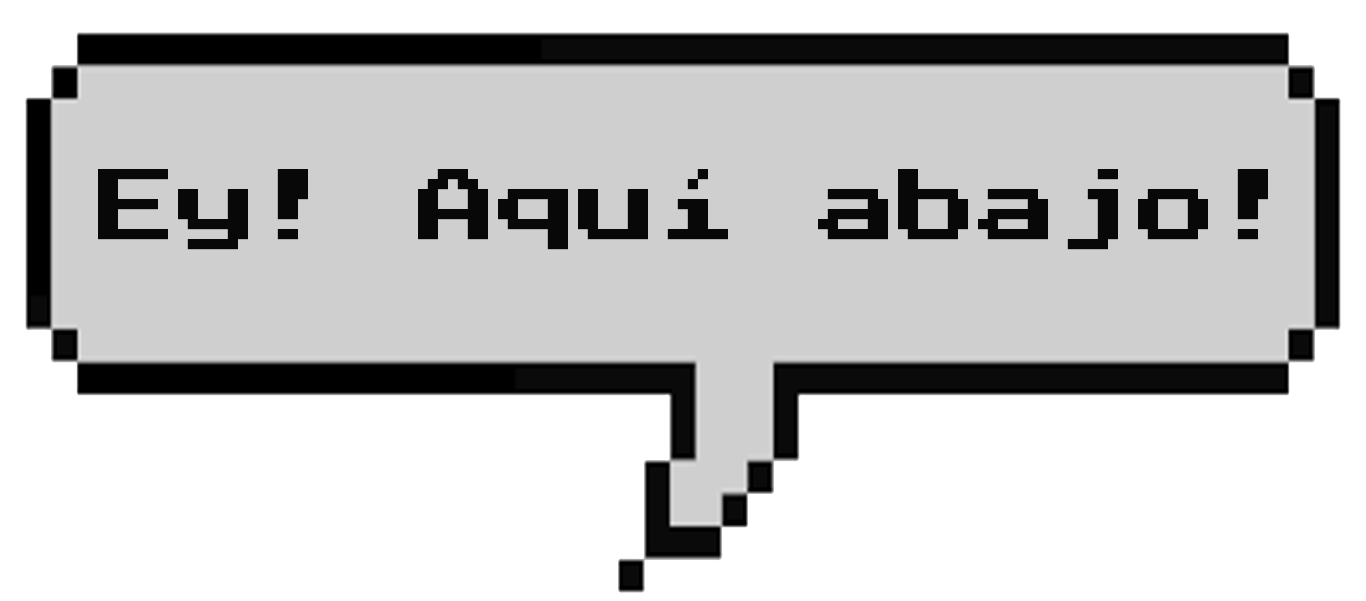
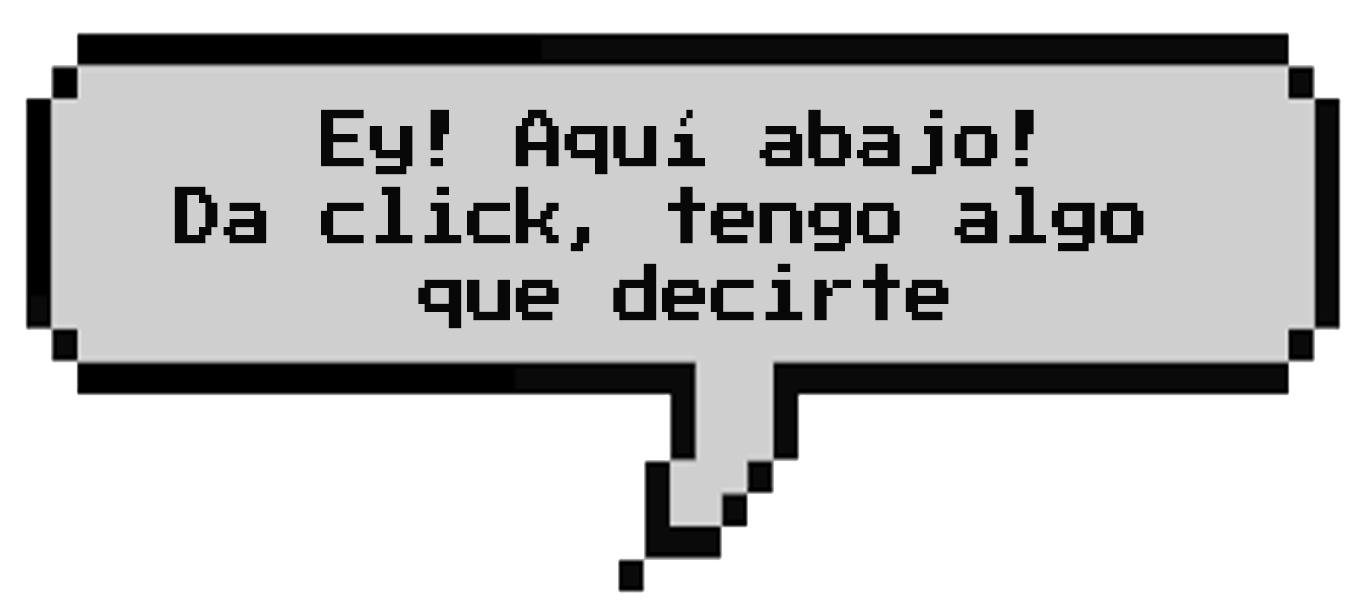
Agregar y corregir consejos de Karin

Changed region(s): [[0.0615, 0.1797, 0.9531, 0.5391]]

diff --git a/src/scenes/Scene_puzzle0.js b/src/scenes/Scene_puzzle0.js
@@ -15,6 +15,8 @@ class Scene_puzzle0 extends Phaser.Scene{
         this.load.image('ayuda2_3','./assets/consejos/dKarin2_3.png');
         this.load.image('ayuda2_4','./assets/consejos/dKarin2_4.png');
         this.load.image('ayuda2_5','./assets/consejos/dKarin2_5.png');
+        this.load.image('consejo_6','./assets/consejos/dKarin0_2.png');
+        this.load.image('consejo_7','./assets/consejos/dKarin0_1.png');
         this.load.path = './assets/puzzle1/';
         //Dialogos de Karin
         
@@ -52,8 +54,10 @@ class Scene_puzzle0 extends Phaser.Scene{
         this.consejo2_1 = this.add.image(120,500,'ayuda2_1').setDepth(3).setScale(0.17).setInteractive();
         this.consejo2_2 = this.add.image(120,500,'ayuda2_2').setDepth(3).setScale(0.17).setVisible(false).setInteractive();
         this.consejo2_3 = this.add.image(120,500,'ayuda2_3').setDepth(3).setScale(0.17).setVisible(false).setInteractive();
-        
 
+        this.consejo0_1 = this.add.image(120,500,'consejo_6').setDepth(3).setScale(0.17).setVisible(false).setInteractive();
+        this.consejo0_2 = this.add.image(120,500,'consejo_7').setDepth(3).setScale(0.17).setVisible(false).setInteractive();
+        
         var num = 1;
 
         this.input.on(eventos.GAMEOBJECT_UP,(pointer,gameObject) =>{
@@ -66,6 +70,12 @@ class Scene_puzzle0 extends Phaser.Scene{
                 this.consejo2_3.setVisible(true);
             }else if(num === 4){
                 this.consejo2_3.setVisible(false);
+                this.consejo0_1.setVisible(true);
+            }else if(num === 5){
+                this.consejo0_1.setVisible(false);
+                this.consejo0_2.setVisible(true);
+            }else if(num === 6){
+                this.consejo0_2.setVisible(false);
                 this.tucan.destroy();
             }
         });

diff --git a/src/scenes/Scene_3.js b/src/scenes/Scene_3.js
@@ -45,6 +45,8 @@ class Scene_3 extends Phaser.Scene{
 
         this.load.image('ayuda2_6','consejos/dKarin2_6.png');
         this.load.image('ayuda2_7','consejos/dKarin2_7.png');
+        this.load.image('consejo3_1','consejos/dKarin3_1.png');
+        this.load.image('consejo3_2','consejos/dKarin3_2.png');
 
         this.load.audio('open_door', 'sounds/open_door.mp3');
     }
@@ -81,6 +83,8 @@ class Scene_3 extends Phaser.Scene{
 
         this.consejo2_6 = this.add.image(240,450,'ayuda2_6').setDepth(3).setScale(0.17).setInteractive();
         this.consejo2_7 = this.add.image(240,450,'ayuda2_7').setDepth(3).setScale(0.17).setVisible(false).setInteractive();
+        this.consejo3_1 = this.add.image(240,450,'consejo3_1').setDepth(3).setScale(0.17).setVisible(false).setInteractive();
+        this.consejo3_2 = this.add.image(240,450,'consejo3_2').setDepth(3).setScale(0.17).setVisible(false).setInteractive();
 
         var num = 1;
 
@@ -91,6 +95,12 @@ class Scene_3 extends Phaser.Scene{
                 this.consejo2_7.setVisible(true);
             }else if(num === 3){
                 this.consejo2_7.setVisible(false);
+                this.consejo3_1.setVisible(true);
+            }else if(num === 4){
+                this.consejo3_1.setVisible(false);
+                this.consejo3_2.setVisible(true);
+            }else if(num === 5){
+                this.consejo3_2.setVisible(false);
                 this.mono.destroy();
             }
         });

diff --git a/src/scenes/Scene_armas.js b/src/scenes/Scene_armas.js
@@ -50,9 +50,9 @@ class Scene_armas extends Phaser.Scene{
         this.btn_salir = this.add.image(850,620,'btn_salir').setScale(0.20).setInteractive().setDepth(5);
 
         //Piso
-        this.piso = this.physics.add.image(0,600,'piso').setOrigin(0).setDepth(3);
-        this.piso.setScale(1.3);
-        this.piso.setCollideWorldBounds(true);
+        this.piso_tienda = this.physics.add.image(0,600,'piso_tienda').setOrigin(0).setDepth(3);
+        this.piso_tienda.setScale(1.3);
+        this.piso_tienda.setCollideWorldBounds(true);
 
         //Nexus
         this.nexus = this.physics.add.sprite(80,300, 'nexus_all', 0).setInteractive();
@@ -117,7 +117,7 @@ class Scene_armas extends Phaser.Scene{
         //Candado
         this.candado = this.add.image(700,305,'candado').setOrigin(0).setScale(0.10).setDepth(5);
         //Dialogo del vendedor
-        this.dialogo = this.add.image(260,160,'dialogo').setScale(0.21).setOrigin(0).setDepth(4).setVisible(false);
+        this.dialogo = this.add.image(250,160,'dialogo').setScale(0.21).setOrigin(0).setDepth(4).setVisible(false);
         //Cargar items necesarios
 
         //--->>Hierro
